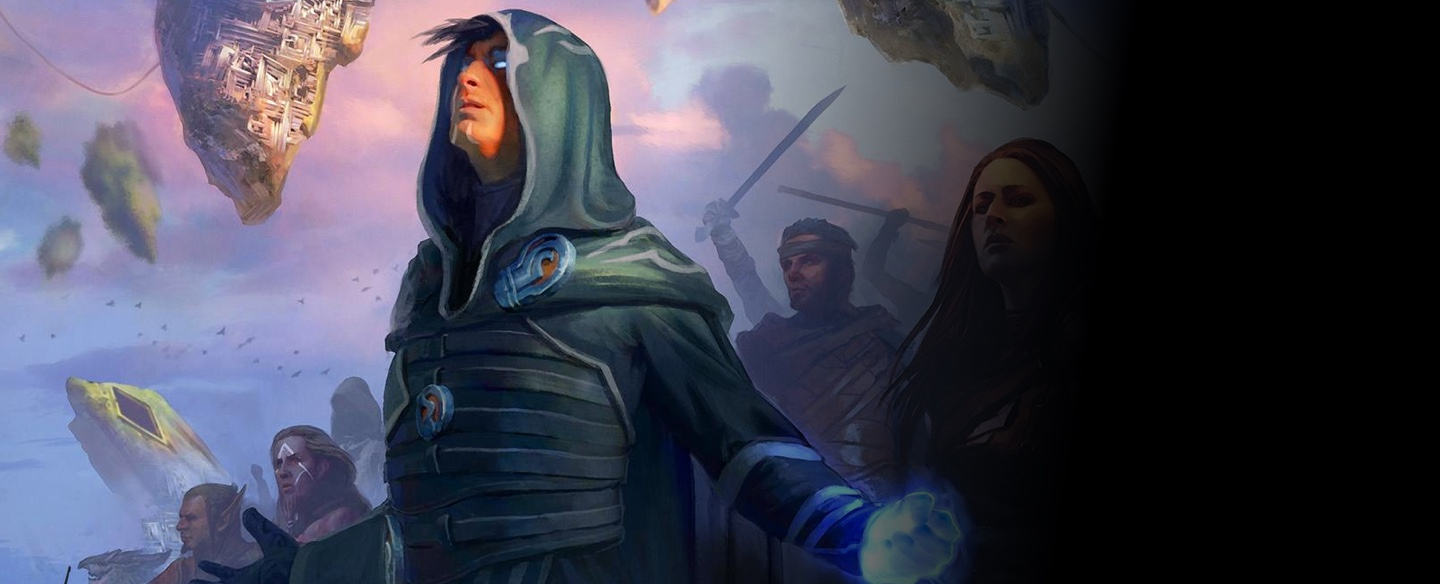
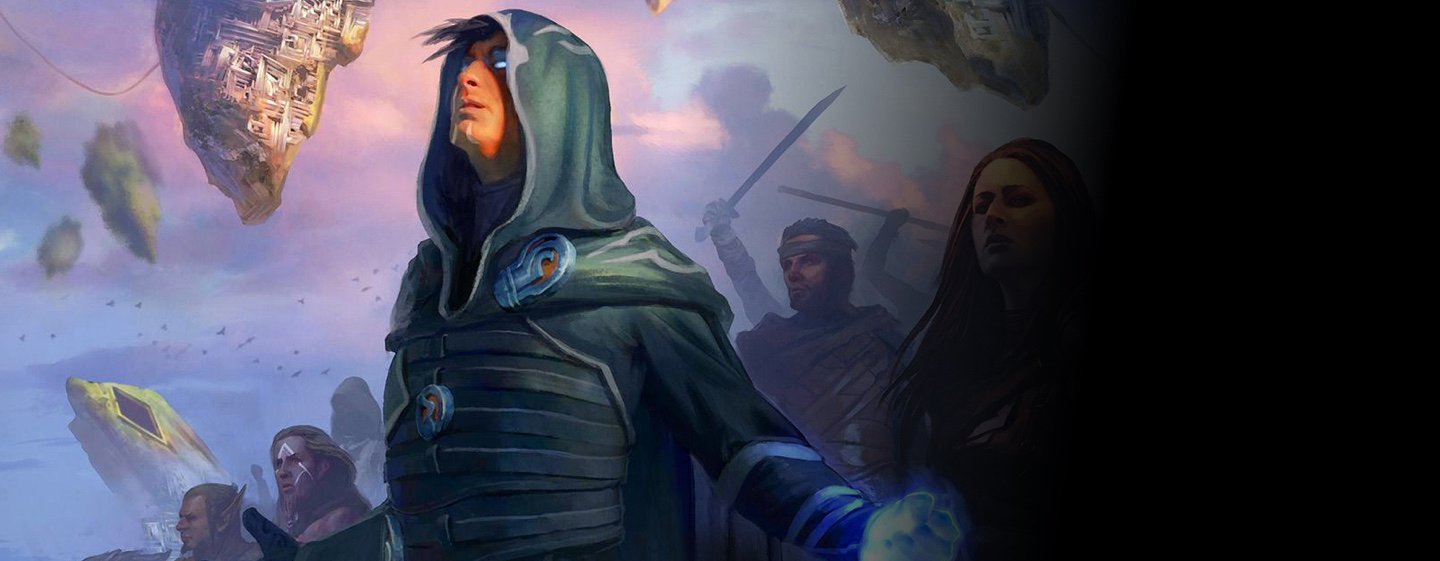
Start tabs component

diff --git a/public/resources/style/css/style.css b/public/resources/style/css/style.css
@@ -125,7 +125,7 @@
       cursor: pointer; }
 
 body {
-  margin: 0;
+  margin: 65px 0 0 0;
   font-family: 'Open Sans', sans-serif;
   color: #2D3132;
   background: #000; }

diff --git a/public/resources/style/scss/style.scss b/public/resources/style/scss/style.scss
@@ -2,7 +2,7 @@
 @import "navbar";
 
 body {
-  margin: 0;
+  margin: 65px 0 0 0;
 
   font-family: 'Open Sans', sans-serif;
   color: $text-color;
